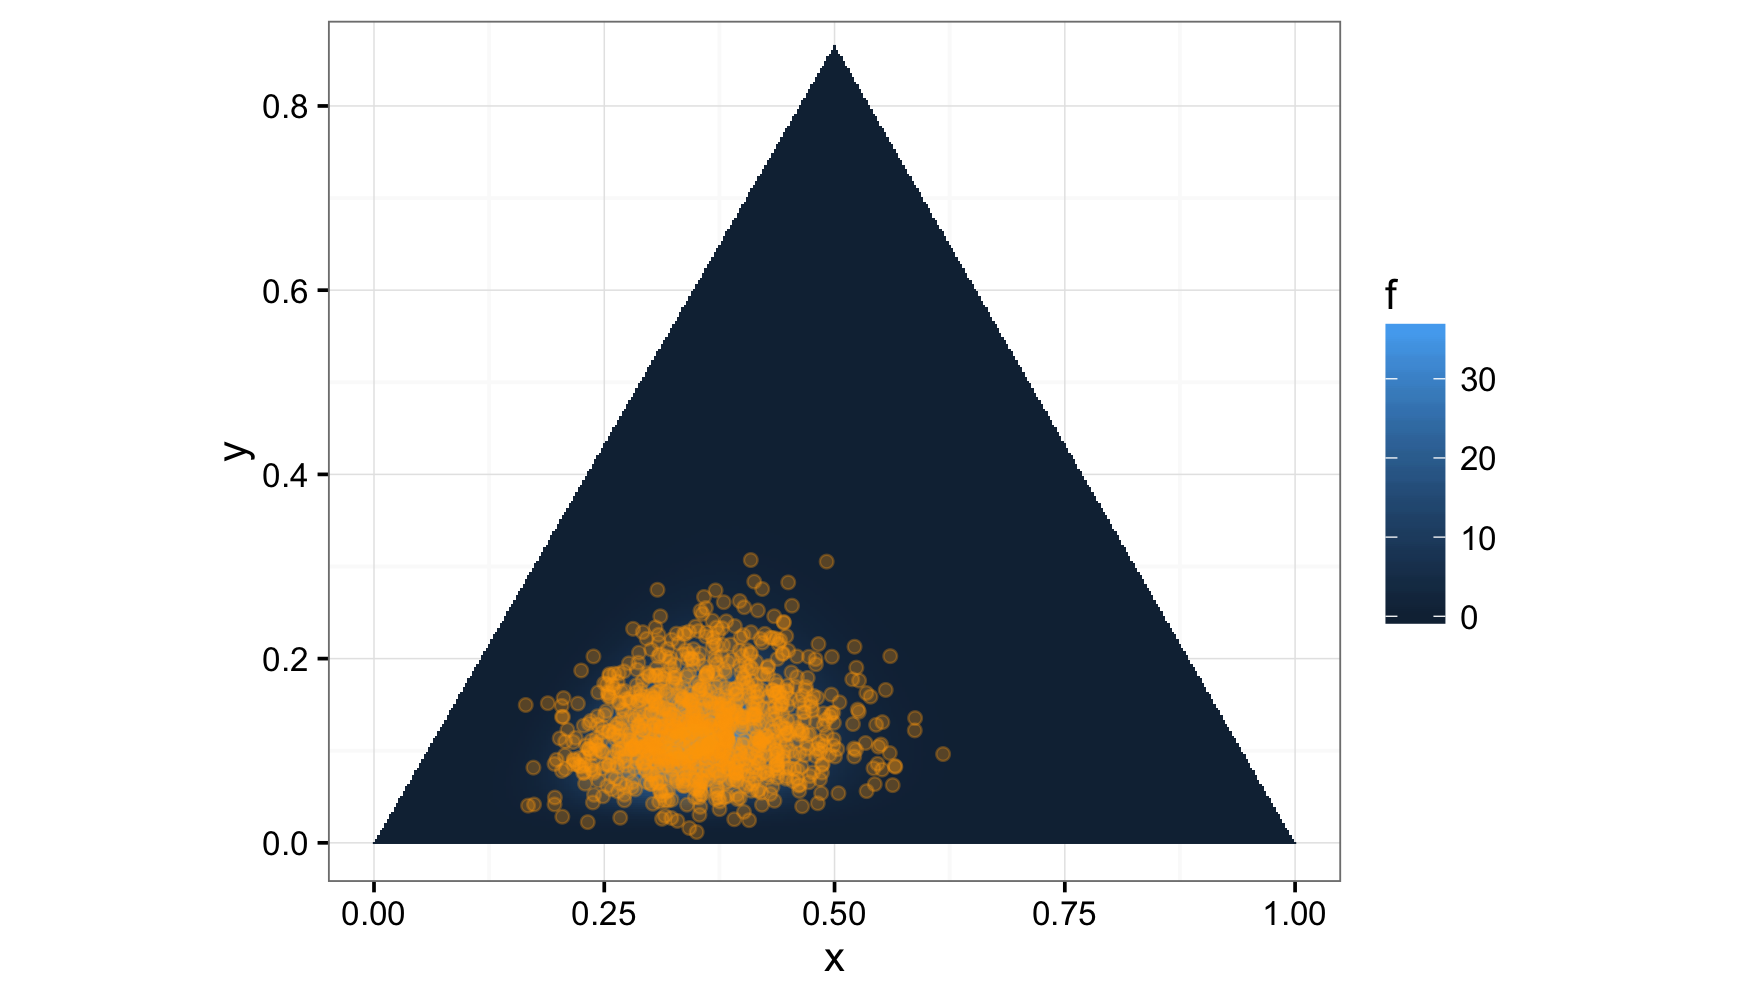
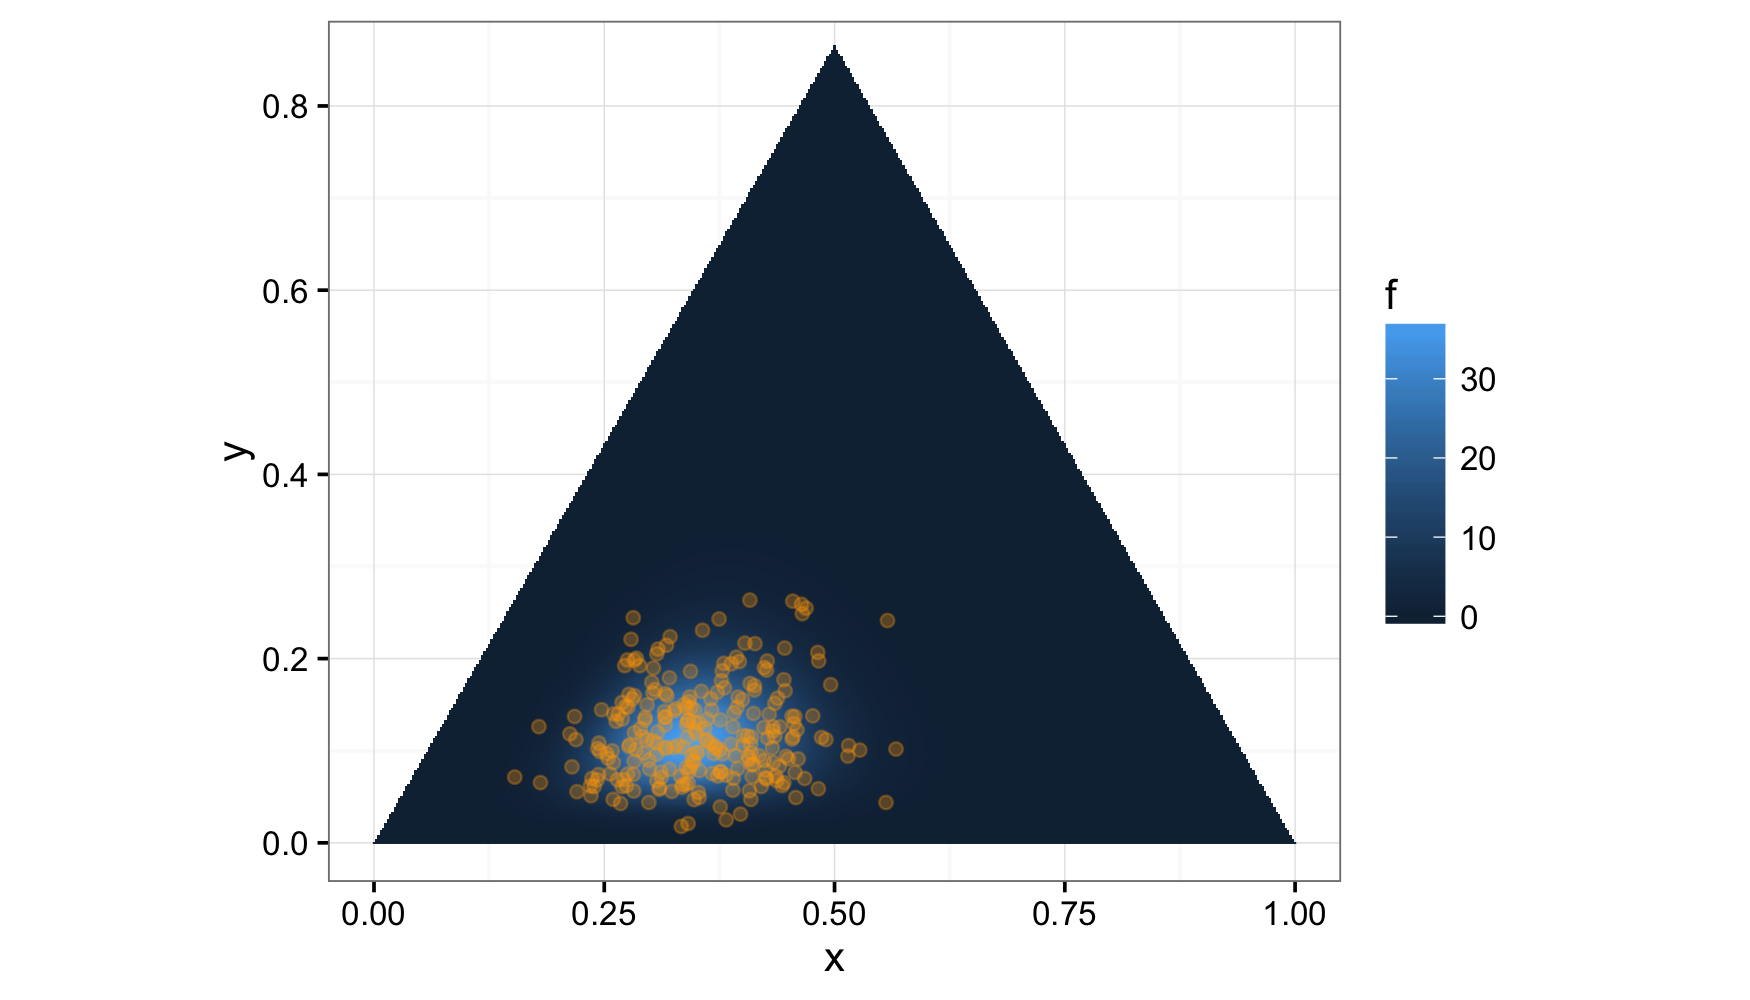
readme updates

Changed region(s): [[0.2777, 0.558, 0.5554, 0.837]]

diff --git a/README.md b/README.md
@@ -31,17 +31,7 @@ ddirichlet(c(.5,.5), c(.5, .5))
 You can visualize it in barycentric coordinates like this:
 
 ``` r
-library(dplyr)
-#  
-#  Attaching package: 'dplyr'
-#  
-#  The following objects are masked from 'package:stats':
-#  
-#      filter, lag
-#  
-#  The following objects are masked from 'package:base':
-#  
-#      intersect, setdiff, setequal, union
+library(dplyr, warn.conflicts = FALSE)
 library(ggplot2); theme_set(theme_bw())
 f <- function(v) ddirichlet(v, c(20, 10, 5))
 mesh <- simplex_mesh(.0025) %>% as.data.frame %>% tbl_df
@@ -58,11 +48,13 @@ Random number generation can be performed with `rdirichlet()`:
 
 ``` r
 set.seed(1)
-rdirichlet(3, c(1, 1, 1))  # rows sum to 1
-#             [,1]      [,2]       [,3]
-#  [1,] 0.07830127 0.4220266 0.49967217
-#  [2,] 0.55164885 0.3582736 0.09007756
-#  [3,] 0.59019469 0.3788586 0.03094669
+rdirichlet(5, c(1, 1, 1))  # rows sum to 1
+#             [,1]       [,2]       [,3]
+#  [1,] 0.09551263 0.71314033 0.19134704
+#  [2,] 0.56339873 0.29631083 0.14029044
+#  [3,] 0.82772645 0.14099156 0.03128199
+#  [4,] 0.38355209 0.04340148 0.57304643
+#  [5,] 0.51197942 0.06583319 0.42218738
 rowSums(rdirichlet(3, c(1, 1, 1)))
 #  [1] 1 1 1
 ```
@@ -70,7 +62,7 @@ rowSums(rdirichlet(3, c(1, 1, 1)))
 You can visualize these points on top of the distribution above like this:
 
 ``` r
-points <- rdirichlet(1e3, c(20, 10, 5)) %>% simp2bary %>% 
+points <- rdirichlet(250, c(20, 10, 5)) %>% simp2bary %>% 
   as.data.frame %>% tbl_df %>% rename(x = V1, y = V2)
 
 p + geom_point(data = points, color = "orange", alpha = .3)
